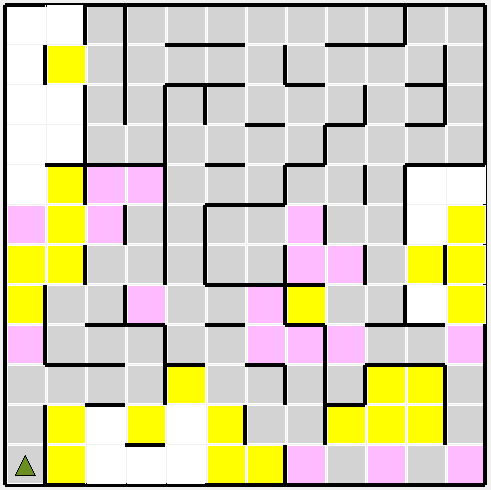
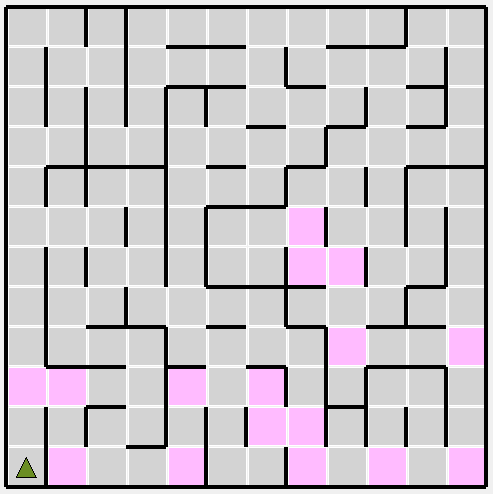
added full outline; finished benchmark

diff --git a/robot.py b/robot.py
@@ -557,7 +557,7 @@ class Robot(object):
 
         elif method == 'search_simple':
             rotation, movement = self.search_simple()
-            time.sleep(0.05)
+            # time.sleep(0.05)
             # key = self.win.getKey()
             # if key == 'q':
             #     exit('bye')

diff --git a/README.md b/README.md
@@ -43,18 +43,49 @@ The goal will be to minimize this score.
 ---
 
 # Analysis
-## Data Explorations
+## Data Explorations / Visualizations
 *Features and calculated statistics relevant to the problem have been reported and discussed related to the dataset, and a thorough description of the input space or input data has been made. Abnormalities or characteristics about the data or input that need to be addressed have been identified.*
 
 Up to this point the maze and the robot have been theoretical. Now we will give them substance. The maze will be a grid of *n x n* squares, where *n* is an even number. There will be walls along the outside edge of the maze as well as many internal walls through which the robot cannot move. The robot will start on the bottom left corner of the maze and the goal will be any of the four squares in the center of the maze.
 
-Here is the 12 x 12 maze as an example:
-![12 x 12 maze](/12x12_start_goal.png)
+Here is the 12 x 12 maze as an example (from showmaze.py):
+![12 x 12 maze](/12x12_start_goal.PNG)
 
 As for the robot, it will occupy a single square and point in one of the four cardinal directions. It will also have three sensors on it's front, left, and right sides. These sensors will give the robot data about the walls. Specifically, each sensor will give an integer value for how many squares away a wall is in the direction of that sensor. In terms of movement, the robot can do two things on it's turn, move and rotate. It can rotate -90, 0, or 90 degrees clockwise, and it can move forwards or backwards up to three squares.
 
-![12 x 12 best path](/12x12_best_path.png)
+Let's take a look at that first example maze to get a better idea of what our robot is working with. The first thing that I notice is that the robot will have to move most (or even all) of the way to the right side of the maze to get to the goal. This means that any exploration done on the left half will be fairly useless. The next thing that I noticed is that there seem to be two main paths. One above the goal, and one below. The optimal path will be a variation of one of these. Perhaps the most interesting twist to this problem is that moves of three spaces and moves of one are weighted the same in terms of scoring. This would tend to reward path with fewer turns, rather that simply the shortest distance traveled. With all of this considered, I went to find the optimal path.
 
+![12 x 12 best path](/12x12_best_path.PNG)
+
+The pink squares are the moves that the robot will make (in this case in the optimal path to the goal). For this maze, the optimal path ended up being **17** moves long.
+
+
+## Benchmark
+To determine how efficient the robot is at mapping and path planning for these mazes it would be wise to develop a benchmark, or a score to shoot for.
+Take the 12x12 maze for example. For this maze the shortest possible path is 17 moves. Therfore, the best possible score would be 17 / 30 (for the first run) + 17 (for the second run), for a best score of **17.6**. Since this would be an unrealistic goal (requiring zero wrong moves) we will assume some inefficiency in the exploration phase. If approximately 50% of the cells need to be explored to find the best path this would correlate to 12 x 12 / 2 = 72 cells to explore, which would take 72 moves minimally. The score for this would be 72 / 30 + 17 = **19.4**. This process can be similarly performed for each maze size. The results of this are summarized in this table:
+
+| Size  | Optimal Path | Goal Score | My Score | Explore % |
+| ----- | ------------ | ---------- | -------- | --------- |
+| 12x12 | 17           | 19.4       | 22.0     | 0.7       |
+| 14x14 | 23           | 26.3       | 31.5	   | 0.7       |
+| 16x16 | 25           | 29.3       | 35.3	   | 0.7       |
+
+# Methodology
+## Data Preprocessing
+
+## Implementation
+
+## Refinement
+
+# Results
+## Model Evaluation and Validation
+
+## Justification
+
+# Conclusion
+## Reflection
+
+## Improvement
 
 
 
